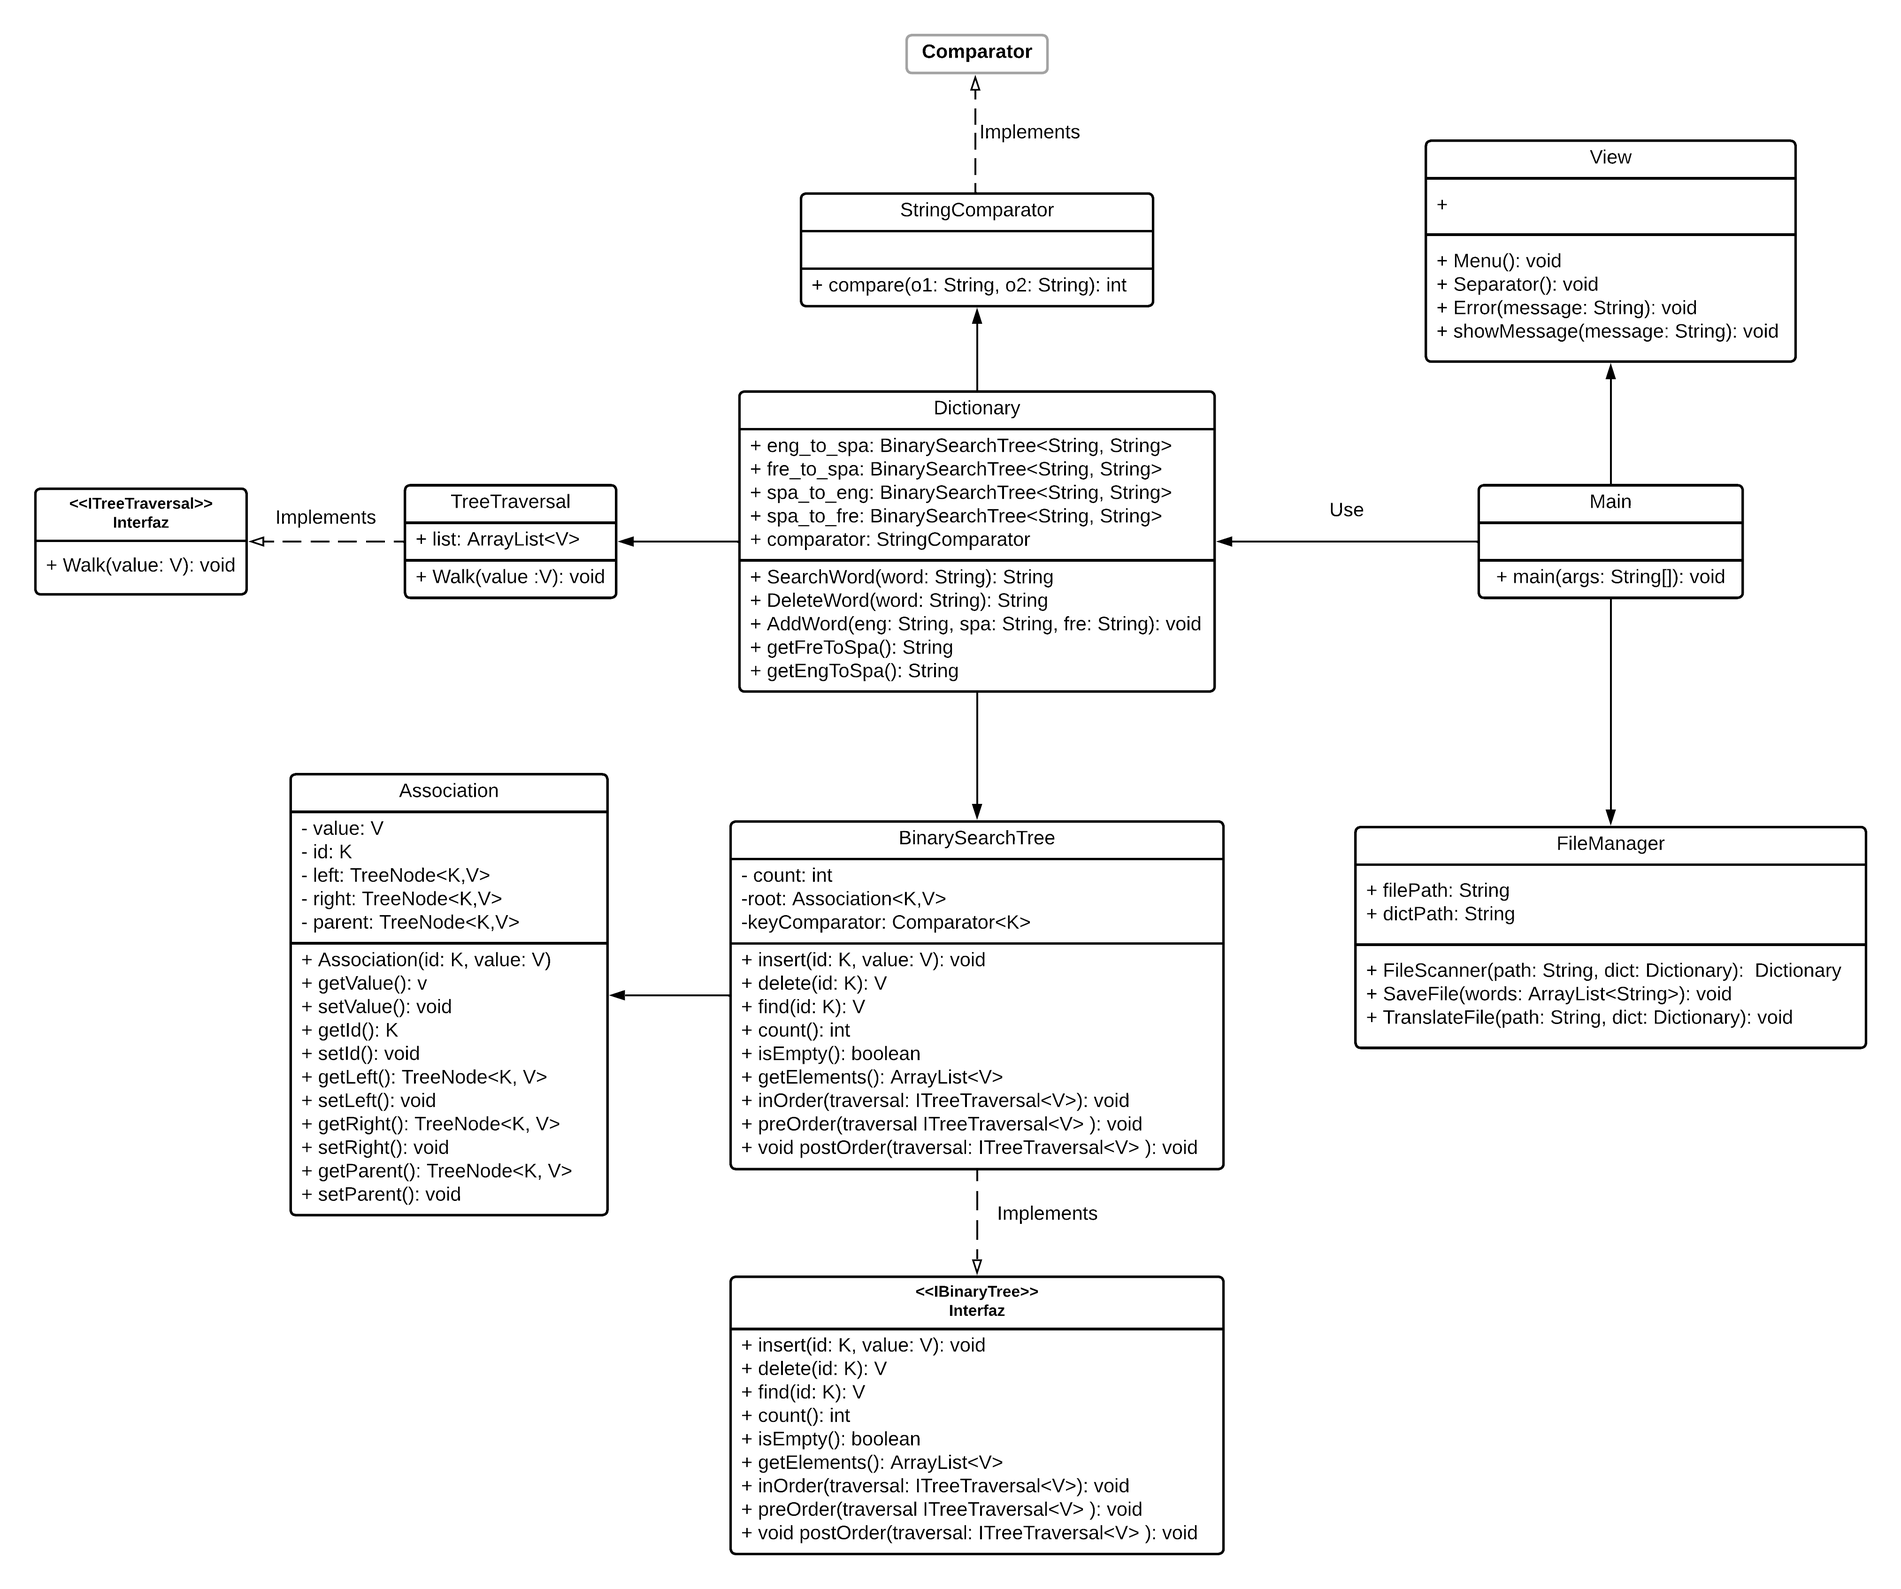
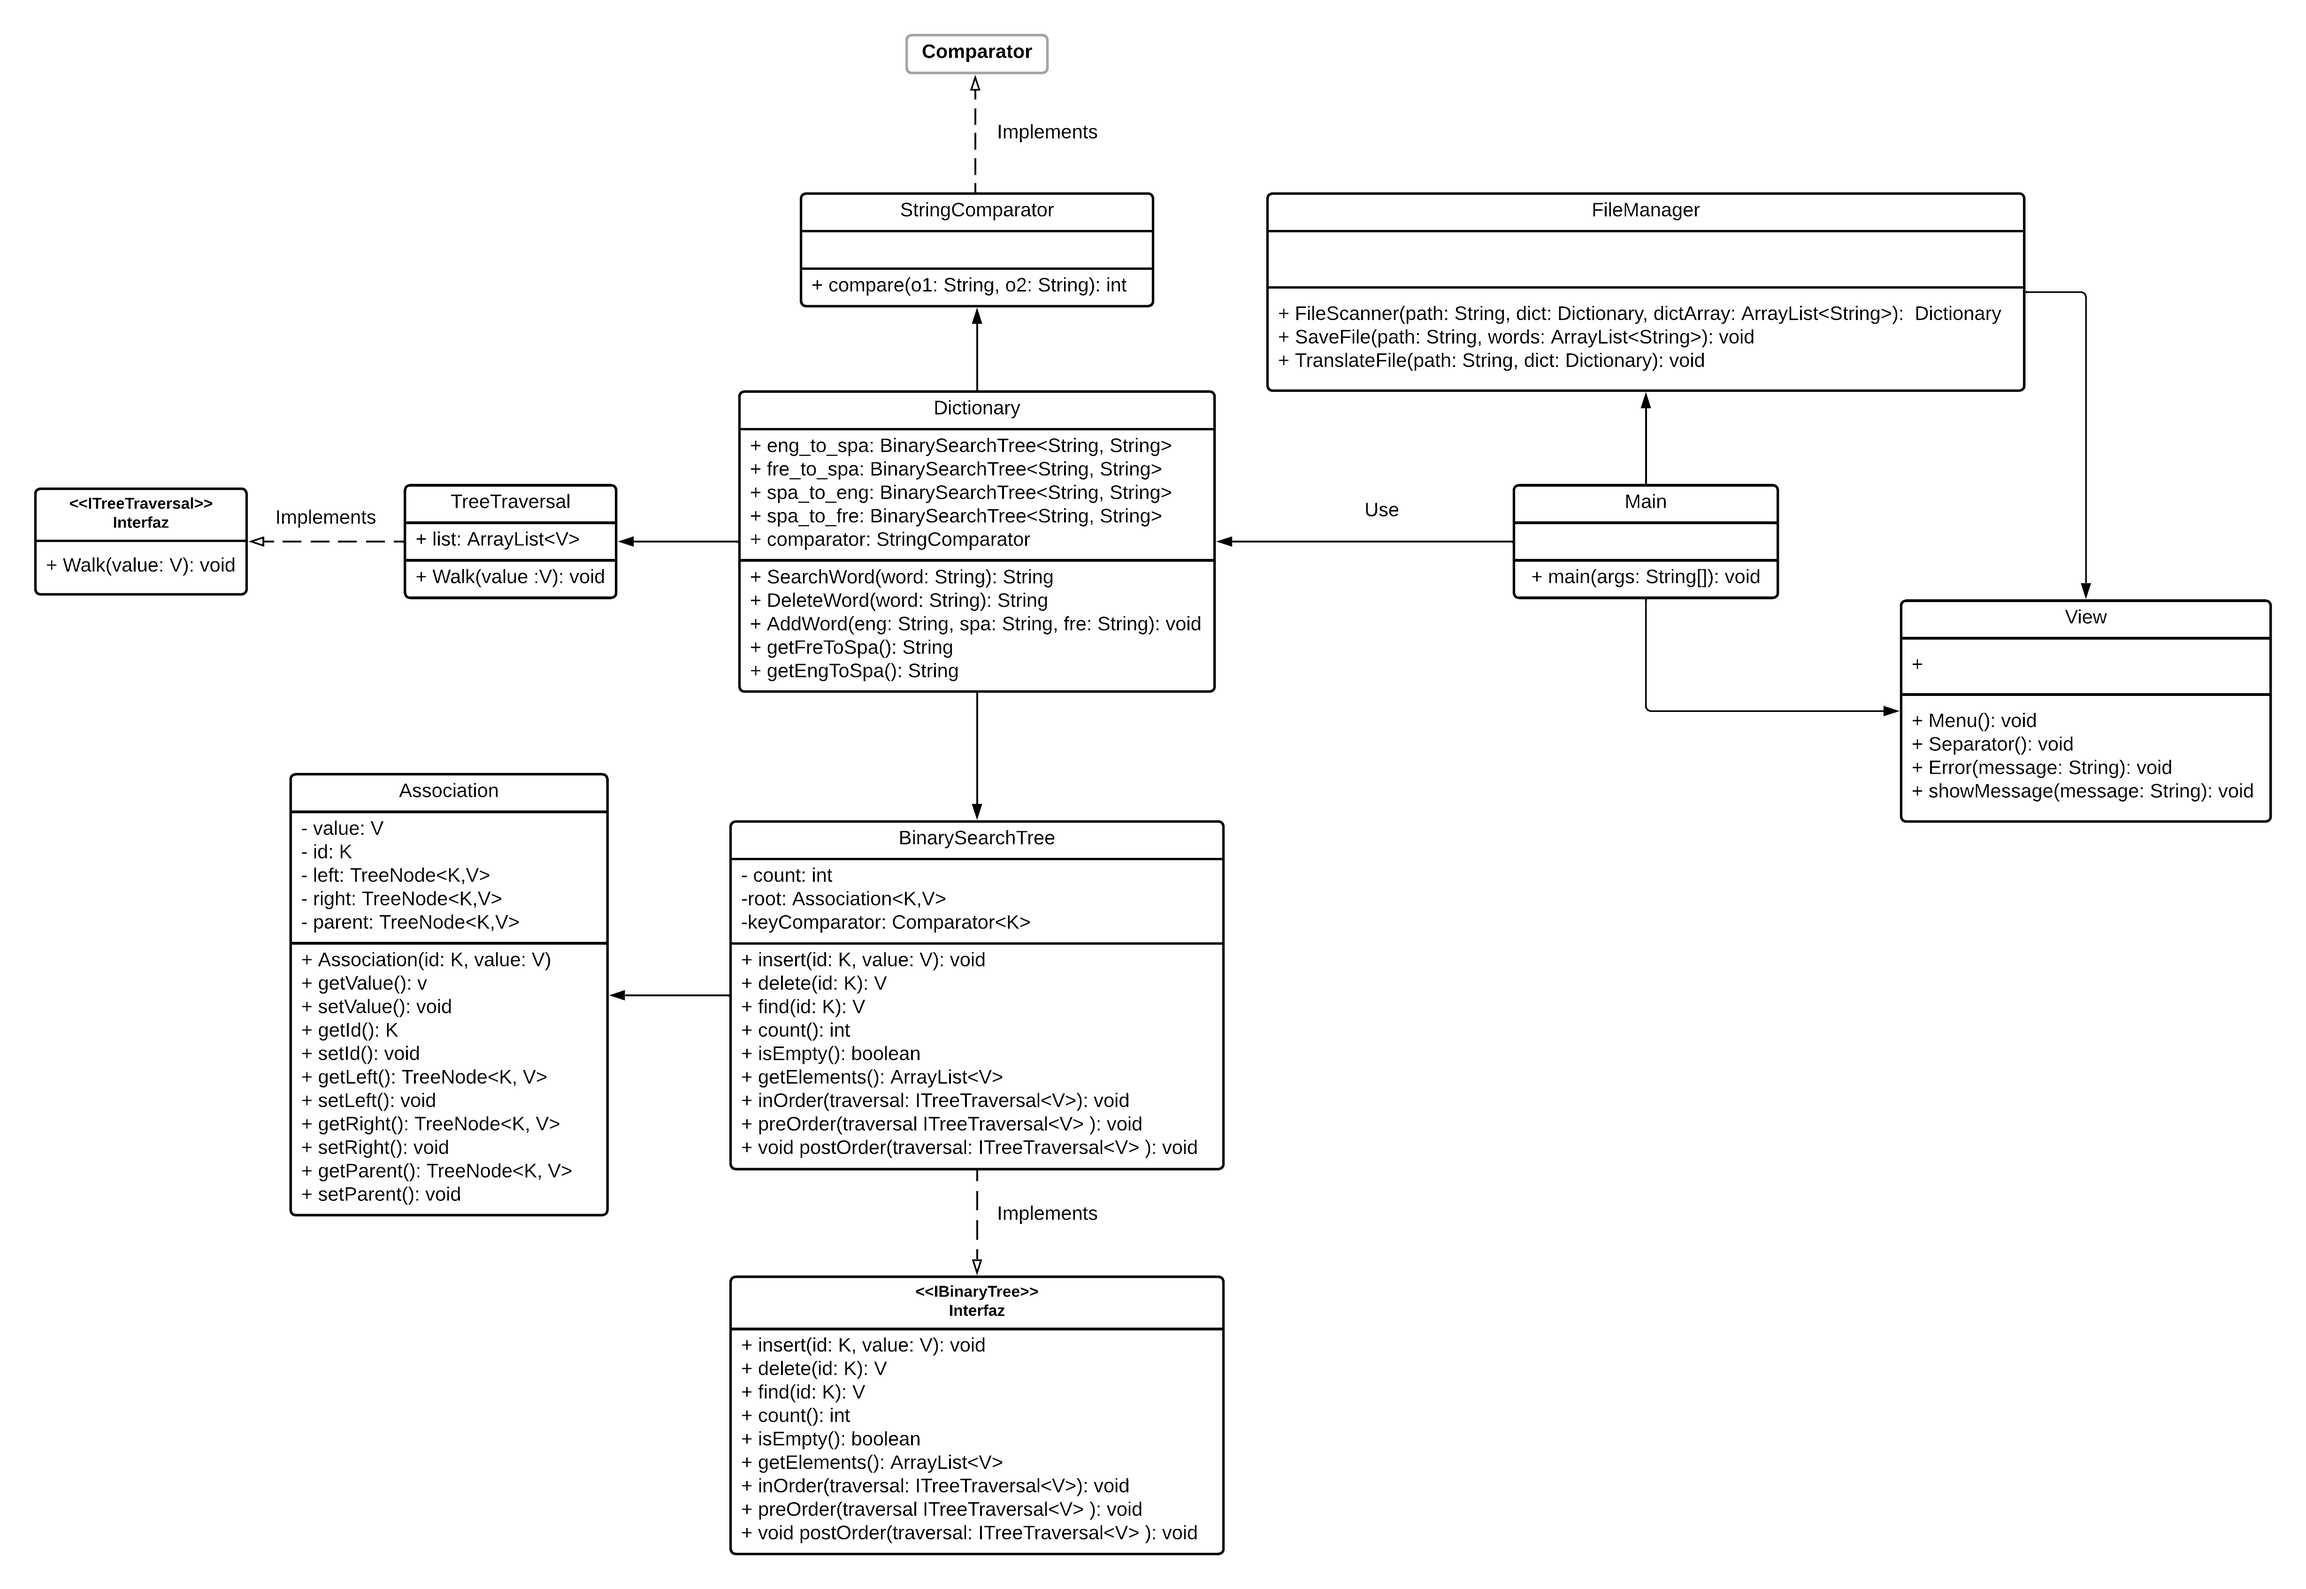
Version 5.0 FileManager
Clase manejadora de archivos de texto
Pequeñas modificaciones en el UML, se agregaron nuevos parametros a los metodos de la clase FileManager, y nuevas relaciones entre la clase View y FileManager

diff --git a/BST/src/FileManager.java b/BST/src/FileManager.java
@@ -1,2 +1,86 @@
+import java.io.*;
+import java.util.ArrayList;
+
 public class FileManager {
+    private View view = new View();
+
+    /**
+     * Lee un archivo de texto y obtiene las palabras del diccionario
+     * @param path la ruta del archivo
+     * @param dict el diccionario
+     * @param dictArray el array del diccionario
+     */
+    public void FileScanner(String path, Dictionary dict, ArrayList<String> dictArray){
+        try {
+            FileReader fileReader = new FileReader(path);
+            BufferedReader bufferedReader = new BufferedReader(fileReader);
+            String line;
+            while ((line=bufferedReader.readLine())!= null){
+                dictArray.add(line);
+                String[] values = line.split(",");
+                dict.AddWord(values[0],values[1],values[2]);
+            }
+            bufferedReader.close();
+        } catch (IOException e) {
+
+            throw new RuntimeException(e);
+        }
+    }
+
+    /**
+     * Guarda el diccionario modificado en el archivo de texto
+     * @param path la ruta del archivo
+     * @param words las palabras a guardar
+     */
+    public void SaveFile(String path, ArrayList<String> words){
+
+        try {
+            FileWriter fileWriter = new FileWriter(path);
+            BufferedWriter bufferedWriter = new BufferedWriter(fileWriter);
+            for (int i =0; i<words.size(); i++){
+                bufferedWriter.write(words.get(i)+"\n");
+            }
+            bufferedWriter.close();
+
+        }catch (Exception e){
+            view.Error((String.valueOf(e)));
+            throw new RuntimeException(e);
+        }
+    }
+
+    /**
+     * Traduce un archivo de texto al español
+     * @param path la ruta del archivo
+     * @param dict el dictionario a traducir
+     */
+    public void TranslateFile(String path, Dictionary dict){
+        try {
+            FileReader fileReader = new FileReader(path);
+            BufferedReader bufferedReader = new BufferedReader(fileReader);
+            String line;
+            while ((line=bufferedReader.readLine())!= null){
+                String newString = "";
+                line=line.replace(".","");
+                line=line.replace(",", "");
+                line=line.replace(";", "");
+                line=line.replace(":", "");
+                String[] wordStrings = line.split(" ");
+                for(int i =0;i<wordStrings.length;i++) {
+                    if(dict.SearchWord(wordStrings[i])!=null) {
+                        wordStrings[i]=dict.SearchWord(wordStrings[i]);
+                    }else {
+                        wordStrings[i]="*"+wordStrings[i]+"*";
+                    }
+                    newString+=wordStrings[i]+" ";
+                }
+                view.ShowMessage(newString);
+            }
+            bufferedReader.close();
+
+        }catch (IOException e){
+            view.Error((String.valueOf(e)));
+            throw new RuntimeException(e);
+        }
+    }
+
 }

diff --git a/BST/src/Main.java b/BST/src/Main.java
@@ -1,5 +1,8 @@
 public class Main {
     public static void main(String[] args) {
+        String filePath = "C:/Users/diego/Documents/UVG/5to Semestre/Algoritmos y Estructuras de Datos/Hoja-de-Trabajo-7/BST/src/texto.txt";
+        String dictPath = "C:/Users/diego/Documents/UVG/5to Semestre/Algoritmos y Estructuras de Datos/Hoja-de-Trabajo-7/BST/src/diccionario.txt";
+
         System.out.println("Hello world!");
 
     }
